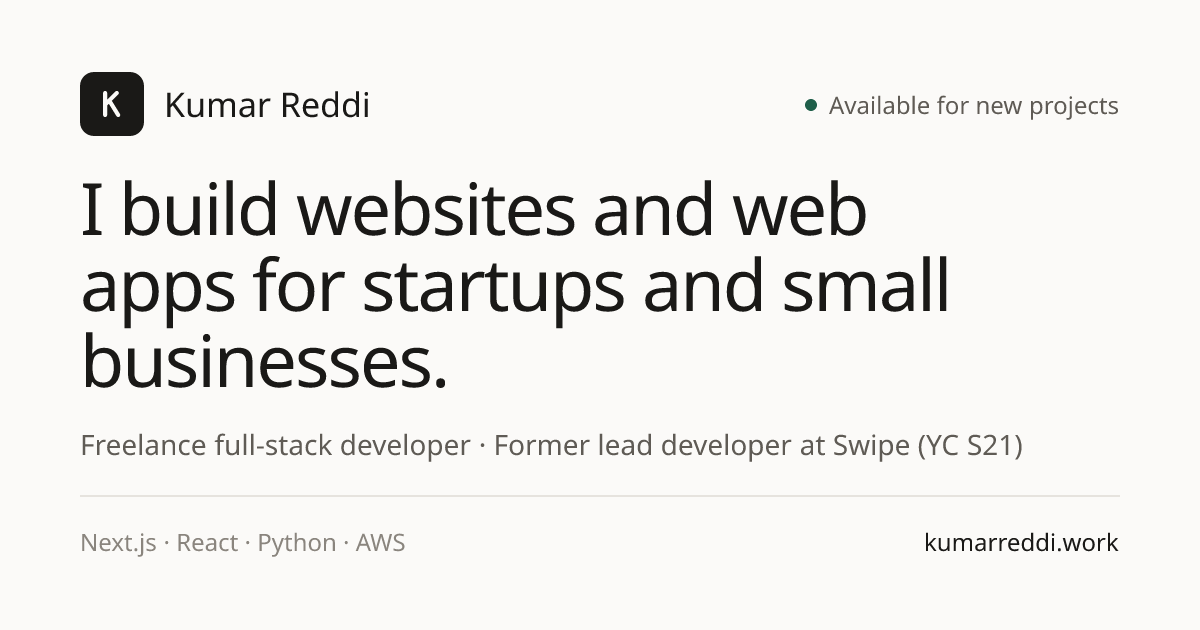
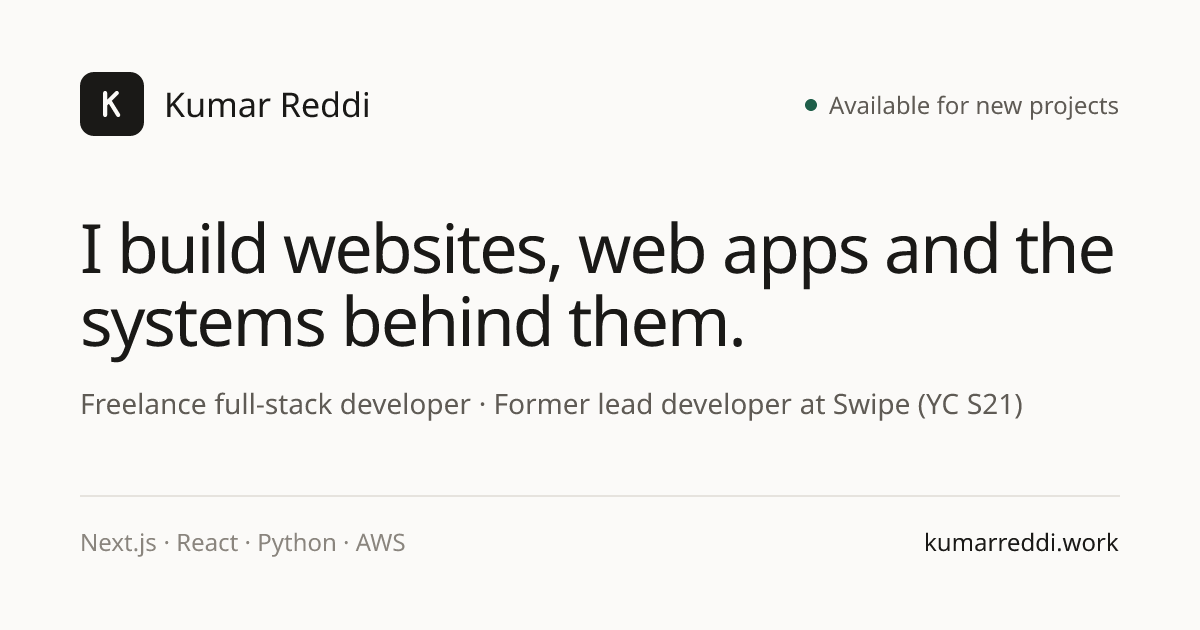
Broaden positioning beyond startups and small businesses
New headline, intro, meta description, keywords and share image
focused on what I build rather than a single client type.

Changed region(s): [[0.0617, 0.2714, 0.925, 0.6635], [0.0617, 0.6937, 0.8633, 0.7238]]

diff --git a/src/app/page.tsx b/src/app/page.tsx
@@ -336,12 +336,13 @@ export default function Home() {
                 Available for new projects
               </p>
               <h1 className="text-4xl sm:text-[3.4rem] font-semibold tracking-tight leading-[1.05] mb-8 text-balance">
-                I build websites and web apps for startups and small businesses.
+                I build websites, web apps and the systems behind them.
               </h1>
               <p className="max-w-xl text-lg text-muted leading-relaxed mb-10">
                 I&apos;m Kumar, a full-stack developer based in India. I spent four years as an early
-                engineer and then lead developer at Swipe (YC S21). Now I work directly with founders
-                and business owners, from the first call to launch.
+                engineer and then lead developer at Swipe (YC S21). Now I take on freelance projects of
+                any size, from a landing page to a full product, and see each one through from the first
+                call to launch.
               </p>
               <div className="flex flex-wrap gap-3">
                 <a

diff --git a/src/site.ts b/src/site.ts
@@ -4,7 +4,7 @@ export const site = {
   name: "Kumar Reddi",
   title: "Kumar Reddi — Freelance Full-Stack Developer",
   description:
-    "Freelance full-stack developer in India building websites and web apps for startups and small businesses. Former lead developer at Swipe (YC S21). Next.js, React, Python and AWS.",
+    "Freelance full-stack developer in India. I build websites, web apps and backend systems, from a single landing page to a full product. Former lead developer at Swipe (YC S21). Next.js, React, Python and AWS.",
   jobTitle: "Freelance Full-Stack Developer",
   locale: "en_IN",
 };

diff --git a/src/app/layout.tsx b/src/app/layout.tsx
@@ -22,7 +22,8 @@ export const metadata: Metadata = {
     "freelance full-stack developer",
     "hire Next.js developer",
     "React developer India",
-    "website developer for small business",
+    "website developer",
+    "hire freelance web developer",
     "web app development",
     "MVP development",
   ],
